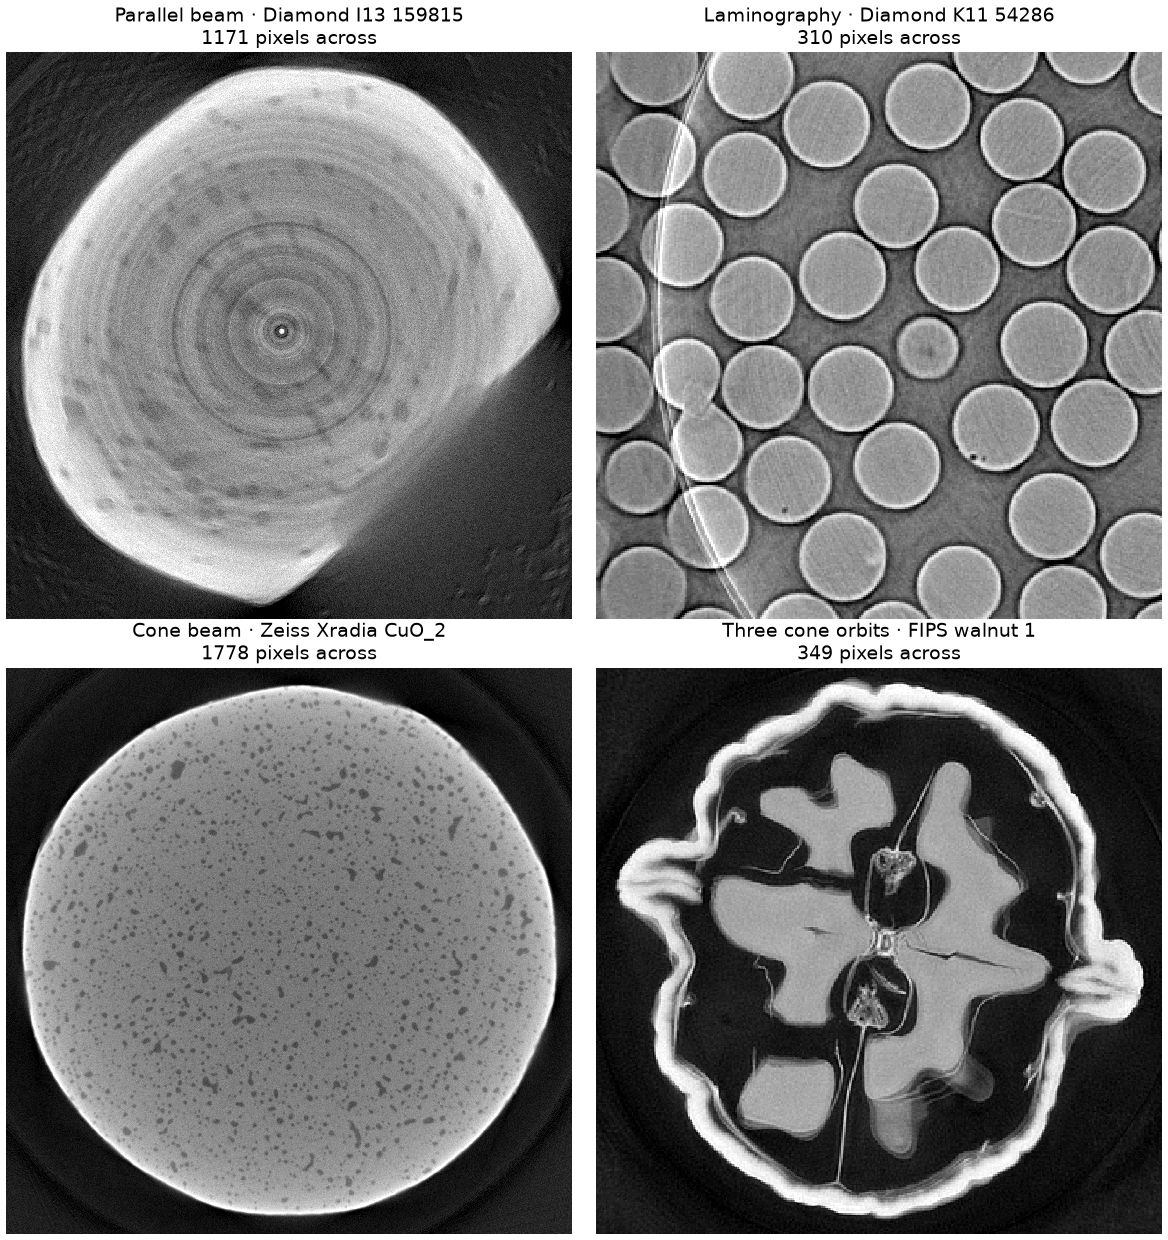
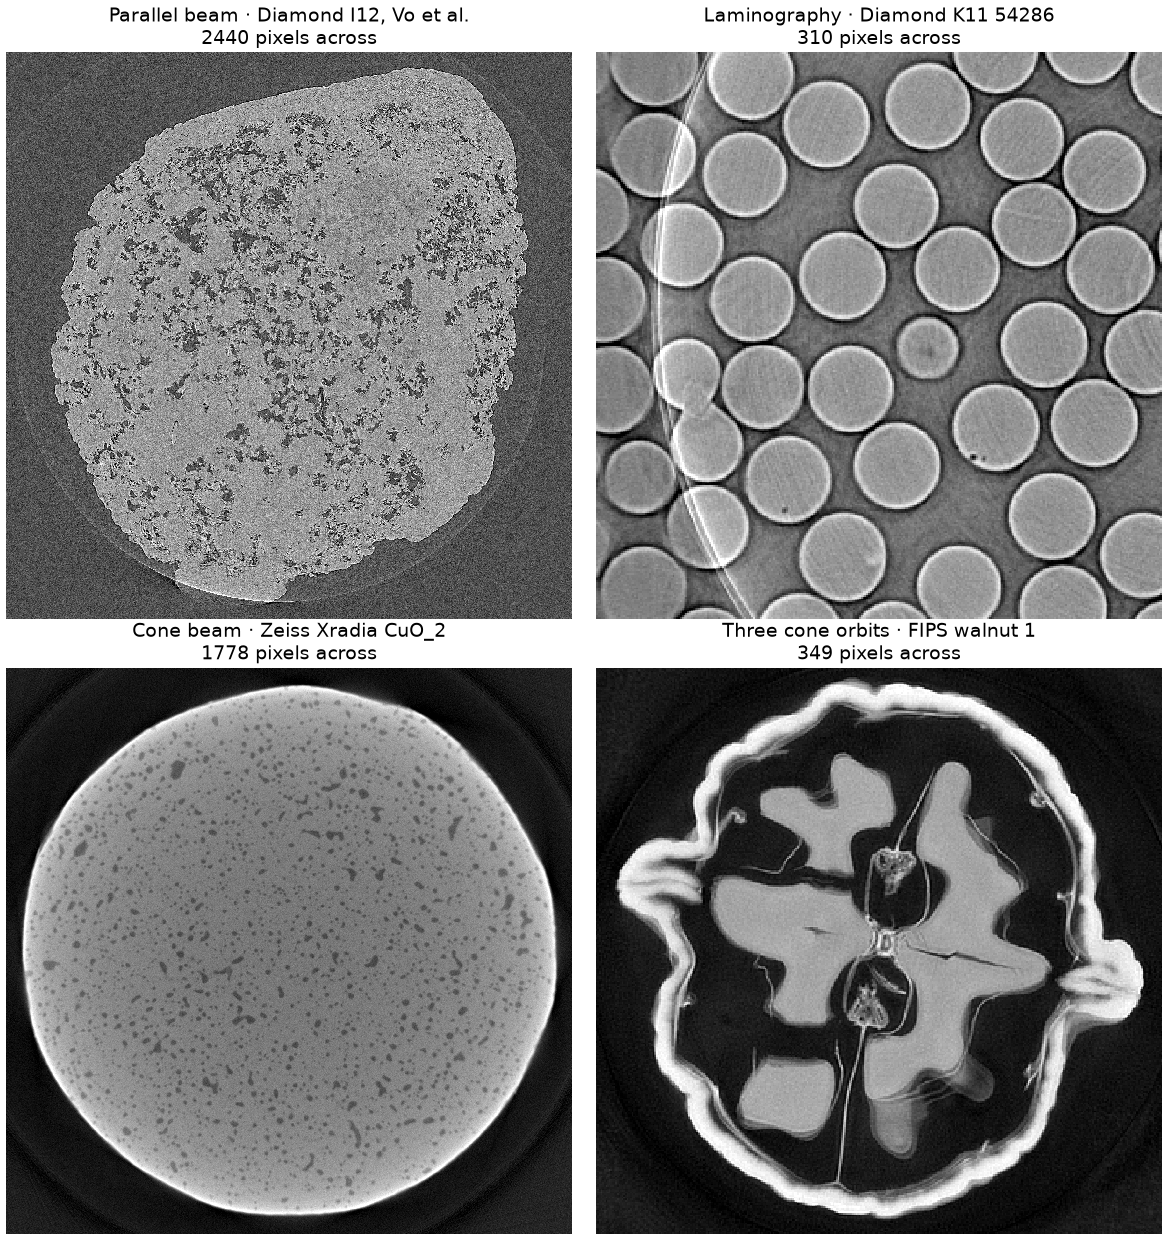
Use the user's choices: I12 rock for the quickstart and the montage, SkyScan back in lab CT
The quickstart and the index montage's parallel-beam panel show the Diamond
I12 rock rows with their ring correction; the beamline row keeps I13 and says
its broad rings remain. With the SkyScan rotation direction fixed, the grains
scan joins the lab-CT figure as a plain load, cropped to the sample.

Changed region(s): [[0.0, 0.0, 0.4932, 0.521]]

diff --git a/examples/gallery/lab_cone_slices.py b/examples/gallery/lab_cone_slices.py
@@ -1,9 +1,10 @@
-"""Central slices of two lab cone-beam scans at their native voxel size.
+"""Central slices of three lab cone-beam scans at their native voxel size.
 
-    uv run python examples/gallery/lab_cone_slices.py ZEISS NIKON lab-cone-slices.png
+    uv run python examples/gallery/lab_cone_slices.py ZEISS NIKON SKYSCAN lab-cone-slices.png
 
 The scans are a Zeiss Xradia acquisition (CuO_2 tomo-B, a copper oxide
-specimen) and a Nikon X-Tek scan of seeds in a box, each read by
+specimen), a Nikon X-Tek scan of seeds in a box and a Bruker SkyScan 1172 scan of
+grains (996 views over 199°, the axis at the detector middle), each read by
 ``tj.load_frames`` from the vendor's own files with the centre and shifts those
 files record: the Zeiss scan's ``AutoRecon/CenterShift`` and per-view image
 shifts, and for Nikon the ``_recon.xtekct`` that holds the centre Nikon's
@@ -29,7 +30,10 @@ import tomojax as tj
 CROPS = {
     "Zeiss Xradia": (800, 800, 400),
     "Nikon X-Tek": (350, 400, 300),
+    "SkyScan": (1150, 760, 300),
 }
+# (row, column, side) of the square each whole slice is cropped to; the sample fills it.
+VIEWS = {"SkyScan": (440, 460, 1100)}
 
 
 def central_slice(frames: tj.Frames) -> tuple[np.ndarray, float]:
@@ -41,24 +45,50 @@ def central_slice(frames: tj.Frames) -> tuple[np.ndarray, float]:
     return np.asarray(tj.reconstruct(scan, "fbp", grid=grid).volume, np.float32)[0], native.vx
 
 
+def skyscan(log: Path) -> tj.Frames:
+    """A SkyScan scan; its log gives no horizontal centre, so the axis is the detector middle.
+
+    The log's camera pixel and binning give the detector pitch and its optical-axis
+    line the vertical centre; the TIFFs are already flat-field corrected to 65535.
+    """
+    import configparser
+
+    config = configparser.ConfigParser()
+    config.read(log, encoding="latin-1")
+    system, acquisition = config["System"], config["Acquisition"]
+    columns, rows = int(acquisition["Number of Columns"]), int(acquisition["Number of Rows"])
+    binning = float(acquisition["Camera binning"].split("x")[0])
+    pitch = float(system["Camera Pixel Size (um)"]) * 1e-3 * binning
+    v = (float(acquisition["Optical Axis (line)"]) - rows / 2) * pitch
+    detector = tj.Detector(columns, rows, pitch, pitch, (0.0, v))
+    return tj.load_frames(log, detector=detector, flats=65535, darks=0)
+
+
 def main() -> None:
     parser = argparse.ArgumentParser(description=__doc__.split("\n\n")[0])
     parser.add_argument("zeiss", type=Path, help="CuO_2_tomo-B.txrm")
     parser.add_argument("nikon", type=Path, help="the seeds scan's _recon.xtekct file")
+    parser.add_argument("skyscan", type=Path, help="the grains scan's .log file")
     parser.add_argument("output", type=Path)
     args = parser.parse_args()
     images = {
         "Zeiss Xradia": central_slice(tj.load_frames(args.zeiss)),
         "Nikon X-Tek": central_slice(tj.load_frames(args.nikon, darks=0)),
+        "SkyScan": central_slice(skyscan(args.skyscan)),
     }
     style()
-    fig, axes = plt.subplots(2, 2, figsize=(7, 6.8))
+    fig, axes = plt.subplots(2, 3, figsize=(10.5, 6.8))
     for (name, (image, voxel)), (whole, zoom) in zip(images.items(), axes.T, strict=True):
-        low, high = np.percentile(image, (0.5, 99.8))
+        top, left, extent = VIEWS.get(name, (0, 0, image.shape[0]))
+        view = image[top : top + extent, left : left + extent]
+        low, high = np.percentile(view, (0.5, 99.8))
         row, column, side = CROPS[name]
-        panel(whole, image, f"{name} · {image.shape[1]} pixels of {voxel * 1000:.3g} µm", low, high)
+        title = f"{name} · {view.shape[1]} pixels of {voxel * 1000:.3g} µm"
+        panel(whole, view, title, low, high)
         whole.add_patch(
-            plt.Rectangle((column, row), side, side, fill=False, color="tab:orange", lw=0.8)
+            plt.Rectangle(
+                (column - left, row - top), side, side, fill=False, color="tab:orange", lw=0.8
+            )
         )
         panel(zoom, image[row : row + side, column : column + side], "Enlarged", low, high)
     fig.suptitle("Lab cone beam: FDK of the central plane at the native voxel size")

diff --git a/examples/gallery/geometry_montage.py b/examples/gallery/geometry_montage.py
@@ -2,15 +2,15 @@
 
     uv run python examples/gallery/geometry_montage.py DATA geometry-montage.png
 
-``DATA`` holds ``diamond-i13-mg31912-1/raw/159815.nxs`` (Diamond I13, parallel
+``DATA`` holds ``full_rows1048-1111.nxs`` (Diamond I12, Zenodo 3339629, parallel
 beam), ``k11-54286.nxs`` (Diamond K11, laminography),
 ``CuO_2_tomo-B.txrm`` (Zeiss Xradia, cone beam) and ``Walnut1`` (the FIPS
 walnut, cone beam on three orbits). Each slice is at the detector's own
 resolution and cropped to the largest bright region:
 
-- I13 159815: 3001 views over a full turn, ``corrected(*RINGS)`` for its rings,
-  the centre from ``tj.align(fit="center", method="opposite-views")``, FBP of
-  one detector row;
+- the Diamond I12 cut of Vo et al.: 1801 views over a half turn,
+  ``corrected(*RINGS)`` for its rings, the axis at column 1417.5 (the dataset notes),
+  FBP of one detector row;
 - K11 54286: 1441 views at 35°, aligned by ``tj.align(scan)``, FBP in-plane
   through the glass-sphere layer at 2.16 µm;
 - CuO_2 tomo-B: 3201 views with the centre and per-view shifts the file records,
@@ -37,7 +37,7 @@ from tomojax.corrections import Stripes
 sys.path.insert(0, str(Path(__file__).resolve().parents[1]))
 from _walnut import load_scan
 
-RINGS = (Stripes(9), Stripes(51, varying=True))  # the I13 scan's ring correction
+RINGS = (Stripes(9), Stripes(51, varying=True))  # the I12 scan's ring correction
 
 
 def object_crop(image: np.ndarray, margin: float = 0.06) -> np.ndarray:
@@ -59,14 +59,15 @@ def object_crop(image: np.ndarray, margin: float = 0.06) -> np.ndarray:
 
 def slices(data: Path) -> dict[str, np.ndarray]:
     """The four slices, keyed by their panel titles."""
-    frames = tj.load_frames(data / "diamond-i13-mg31912-1/raw/159815.nxs")
-    scan = frames.cropped(slice(1079, 1082), slice(None)).corrected(*RINGS)
-    scan = tj.align(scan, fit="center", method="opposite-views").scan
-    i13 = np.asarray(tj.reconstruct(scan, "fbp").volume, np.float32)[1]
+    frames = tj.load_frames(
+        data / "full_rows1048-1111.nxs", detector=tj.Detector(2560, 64, 1, 1, center=(-138, 0))
+    )
+    scan = frames.cropped(slice(30, 33), slice(None)).corrected(*RINGS)
+    i12 = np.asarray(tj.reconstruct(scan, "fbp").volume, np.float32)[1]
     k11 = tj.align(load_k11(data / "k11-54286.nxs", 35.0)).scan
     walnut = load_scan(data / "Walnut1", orbits=(1, 2, 3), every=1, binning=1, size=501)
     return {
-        "Parallel beam · Diamond I13 159815": i13,
+        "Parallel beam · Diamond I12, Vo et al.": i12,
         "Laminography · Diamond K11 54286": plane(k11, (0, 0, 12.96), (704, 704, 1)),
         "Cone beam · Zeiss Xradia CuO_2": central_slice(tj.load_frames(data / "CuO_2_tomo-B.txrm"))[
             0

diff --git a/docs/lab-ct.md b/docs/lab-ct.md
@@ -188,16 +188,19 @@ one edge of the detector, which widens the field of view) and short scans of
 at least 180° plus the fan angle (Parker weights). Like every FDK, it is exact
 only in the orbit plane, with cone artefacts growing away from it.
 
-![FDK central slices of two lab scans, each above an enlarged region: a copper oxide specimen from a Zeiss Xradia at 1.13 µm and a box of seeds from a Nikon X-Tek at 94 µm.](images/lab-cone-slices.png)
+![FDK central slices of three lab scans, each above an enlarged region: a copper oxide specimen from a Zeiss Xradia at 1.13 µm, a box of seeds from a Nikon X-Tek at 94 µm and grains in a SkyScan 1172 at 14.1 µm.](images/lab-cone-slices.png)
 
-The orbit plane of two lab scans, each loaded from the vendor's own files with
-the centre they record and reconstructed by FDK at one voxel per detector pixel
-at the rotation axis, with no alignment: the Zeiss Xradia CuO_2 tomo-B scan
-(3201 views, its `AutoRecon/CenterShift` and per-view image shifts) and the
-Nikon X-Tek seeds scan (1571 views, the centre in its `_recon.xtekct`).
+The orbit plane of three lab scans, each loaded from the vendor's own files and
+reconstructed by FDK at one voxel per detector pixel at the rotation axis, with
+no alignment: the Zeiss Xradia CuO_2 tomo-B scan (3201 views, its
+`AutoRecon/CenterShift` and per-view image shifts), the Nikon X-Tek seeds scan
+(1571 views, the centre in its `_recon.xtekct`) and a SkyScan 1172 scan of
+grains (996 views over 199°; its log records no horizontal centre, so the axis
+is the detector middle).
 
 ```bash
-uv run python examples/gallery/lab_cone_slices.py CuO_2_tomo-B.txrm "47209 testscan korn01_recon.xtekct" lab-cone-slices.png
+uv run python examples/gallery/lab_cone_slices.py CuO_2_tomo-B.txrm \
+  "47209 testscan korn01_recon.xtekct" jyvat.log lab-cone-slices.png
 ```
 
 The iterative solvers model the cone beam exactly, with any per-view poses.

diff --git a/docs/quickstart.md b/docs/quickstart.md
@@ -140,19 +140,17 @@ The widths are detector columns, not reconstructed-ring radii. Increase the
 ordinary width for wider stripes, and compare images: stationary centred object
 features can also be changed. Missing information at dead pixels is not recovered.
 
-![A raw detector frame of a dense pellet with a band of 16 rows marked, the corrected sinogram of one row, its FBP slice cropped to the pellet and an enlarged region of the slice.](images/i13-first-slice.png)
+![A raw detector frame of a sandstone plug with a band of 16 rows marked, the corrected sinogram of one row, its FBP slice and an enlarged region of the slice.](images/i12-first-slice.png)
 
-Diamond I13 scan 159815, 3001 views over a full turn, through these steps: one
-raw frame with the 16 cropped rows marked, the corrected sinogram of the middle
-row after `Stripes(9)` and `Stripes(51, varying=True)`, and its FBP slice with
-the centre from `tj.align(fit="center", method="opposite-views")`, cropped to
-the pellet. The pellet absorbs almost all of the beam, so its slice is noisy
-and streaked where the rays cross it longest, and it keeps broad rings that the
-ring correction does not remove.
+The Diamond I12 scan of Vo et al. (Zenodo 3339629), 1801 views over a half turn
+of 2560-pixel rows, through these steps: one raw frame with the 16 cropped rows
+marked, the corrected sinogram of the middle row after `Stripes(9)` and
+`Stripes(51, varying=True)`, and its FBP slice with the axis at column 1417.5,
+as the dataset's notes give it.
 
 ```bash
-uv run python examples/gallery/first_slice.py 159815.nxs i13-first-slice.png \
-  --view 650 700 1250 --crop 1350 1000
+uv run python examples/gallery/first_slice.py full_rows1048-1111.nxs i12-first-slice.png \
+  --rows 24 40 --center -138 --crop 1500 1100 --title "Diamond I12, Vo et al."
 ```
 
 `corrected(..., binning=2)` averages 2 x 2 detector blocks of the line integrals,

diff --git a/docs/README.md b/docs/README.md
@@ -5,16 +5,16 @@ preprocessing details. TomoJAX is an early research library for parallel-beam,
 laminography and lab cone-beam models; consult the support and limitations
 pages before planning a workflow.
 
-![Four reconstructed slices, one per geometry: a dense pellet from Diamond I13 in parallel beam, a layer of glass spheres from Diamond K11 laminography, a copper oxide specimen from a Zeiss Xradia cone-beam scan, and a FIPS walnut from three cone-beam orbits.](images/geometry-montage.png)
+![Four reconstructed slices, one per geometry: a sandstone plug from Diamond I12 in parallel beam, a layer of glass spheres from Diamond K11 laminography, a copper oxide specimen from a Zeiss Xradia cone-beam scan, and a FIPS walnut from three cone-beam orbits.](images/geometry-montage.png)
 
 One real scan for each geometry TomoJAX reconstructs, each slice at its
-detector's resolution and cropped to the sample: Diamond I13 scan 159815
-(parallel beam; `Stripes(9)` and `Stripes(51, varying=True)` for its rings, the
-centre from `tj.align(fit="center", method="opposite-views")`, FBP), Diamond K11
+detector's resolution and cropped to the sample: the Diamond I12 scan of Vo et
+al. (parallel beam; `Stripes(9)` and `Stripes(51, varying=True)` for its rings,
+FBP), Diamond K11
 scan 54286 (laminography; aligned by `tj.align(scan)`, FBP at 2.16 µm), Zeiss
 Xradia CuO_2 tomo-B (cone beam; the centre and shifts its file records, FDK at
 1.13 µm) and FIPS walnut 1 (three cone orbits; CGLS on the authors' 0.1 mm
-grid). The I13 slice keeps broad rings that the ring correction does not remove.
+grid).
 
 ```bash
 uv run python examples/gallery/geometry_montage.py DATA geometry-montage.png

diff --git a/docs/support-matrix.md b/docs/support-matrix.md
@@ -3,7 +3,7 @@
 Available workflows and their entrypoints. “Supported” means implemented and
 tested. See [installation](installation.md) and [measurement scope](measurements.md).
 
-![Four reconstructed slices, one per geometry: a dense pellet from Diamond I13 in parallel beam, a layer of glass spheres from Diamond K11 laminography, a copper oxide specimen from a Zeiss Xradia cone-beam scan, and a FIPS walnut from three cone-beam orbits.](images/geometry-montage.png)
+![Four reconstructed slices, one per geometry: a sandstone plug from Diamond I12 in parallel beam, a layer of glass spheres from Diamond K11 laminography, a copper oxide specimen from a Zeiss Xradia cone-beam scan, and a FIPS walnut from three cone-beam orbits.](images/geometry-montage.png)
 
 One real scan for each supported geometry, as on the
 [documentation index](README.md).
